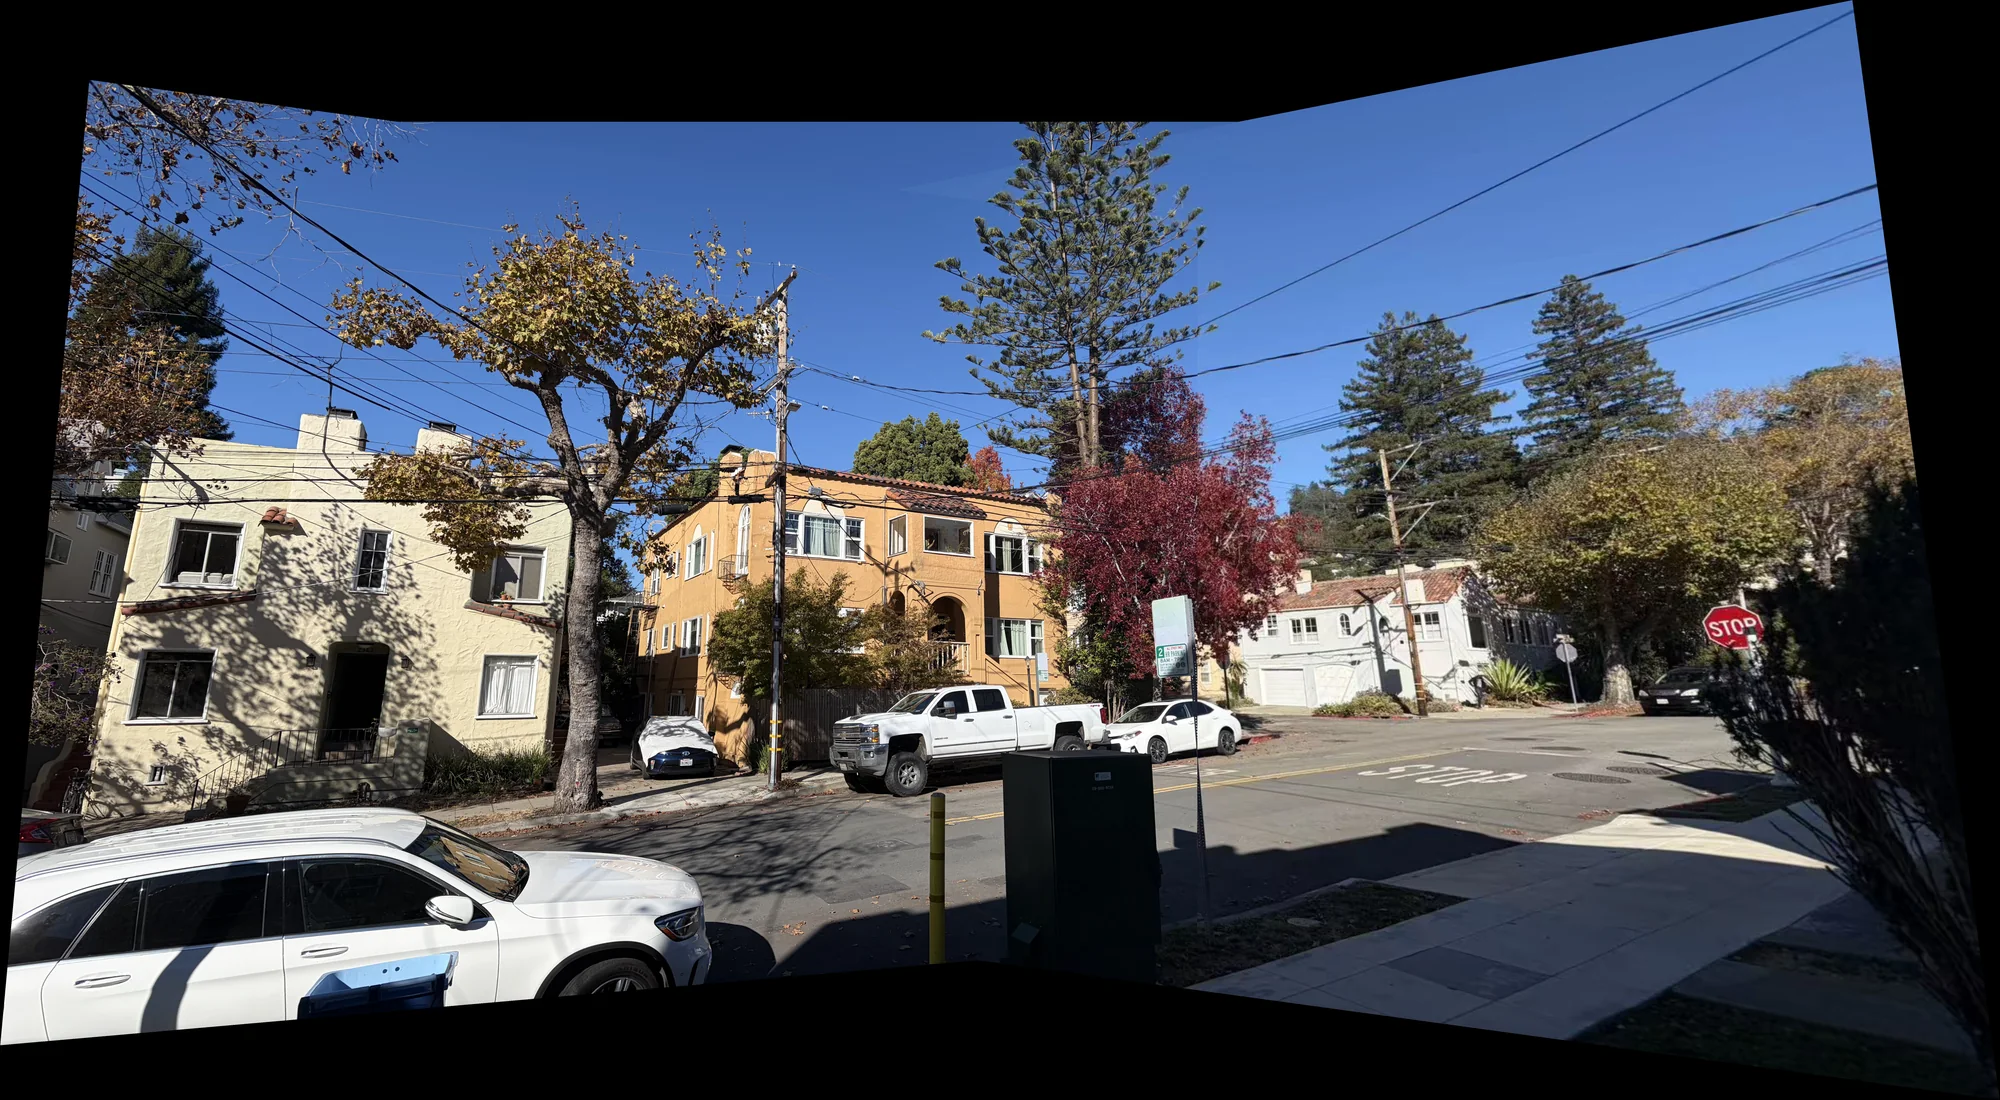
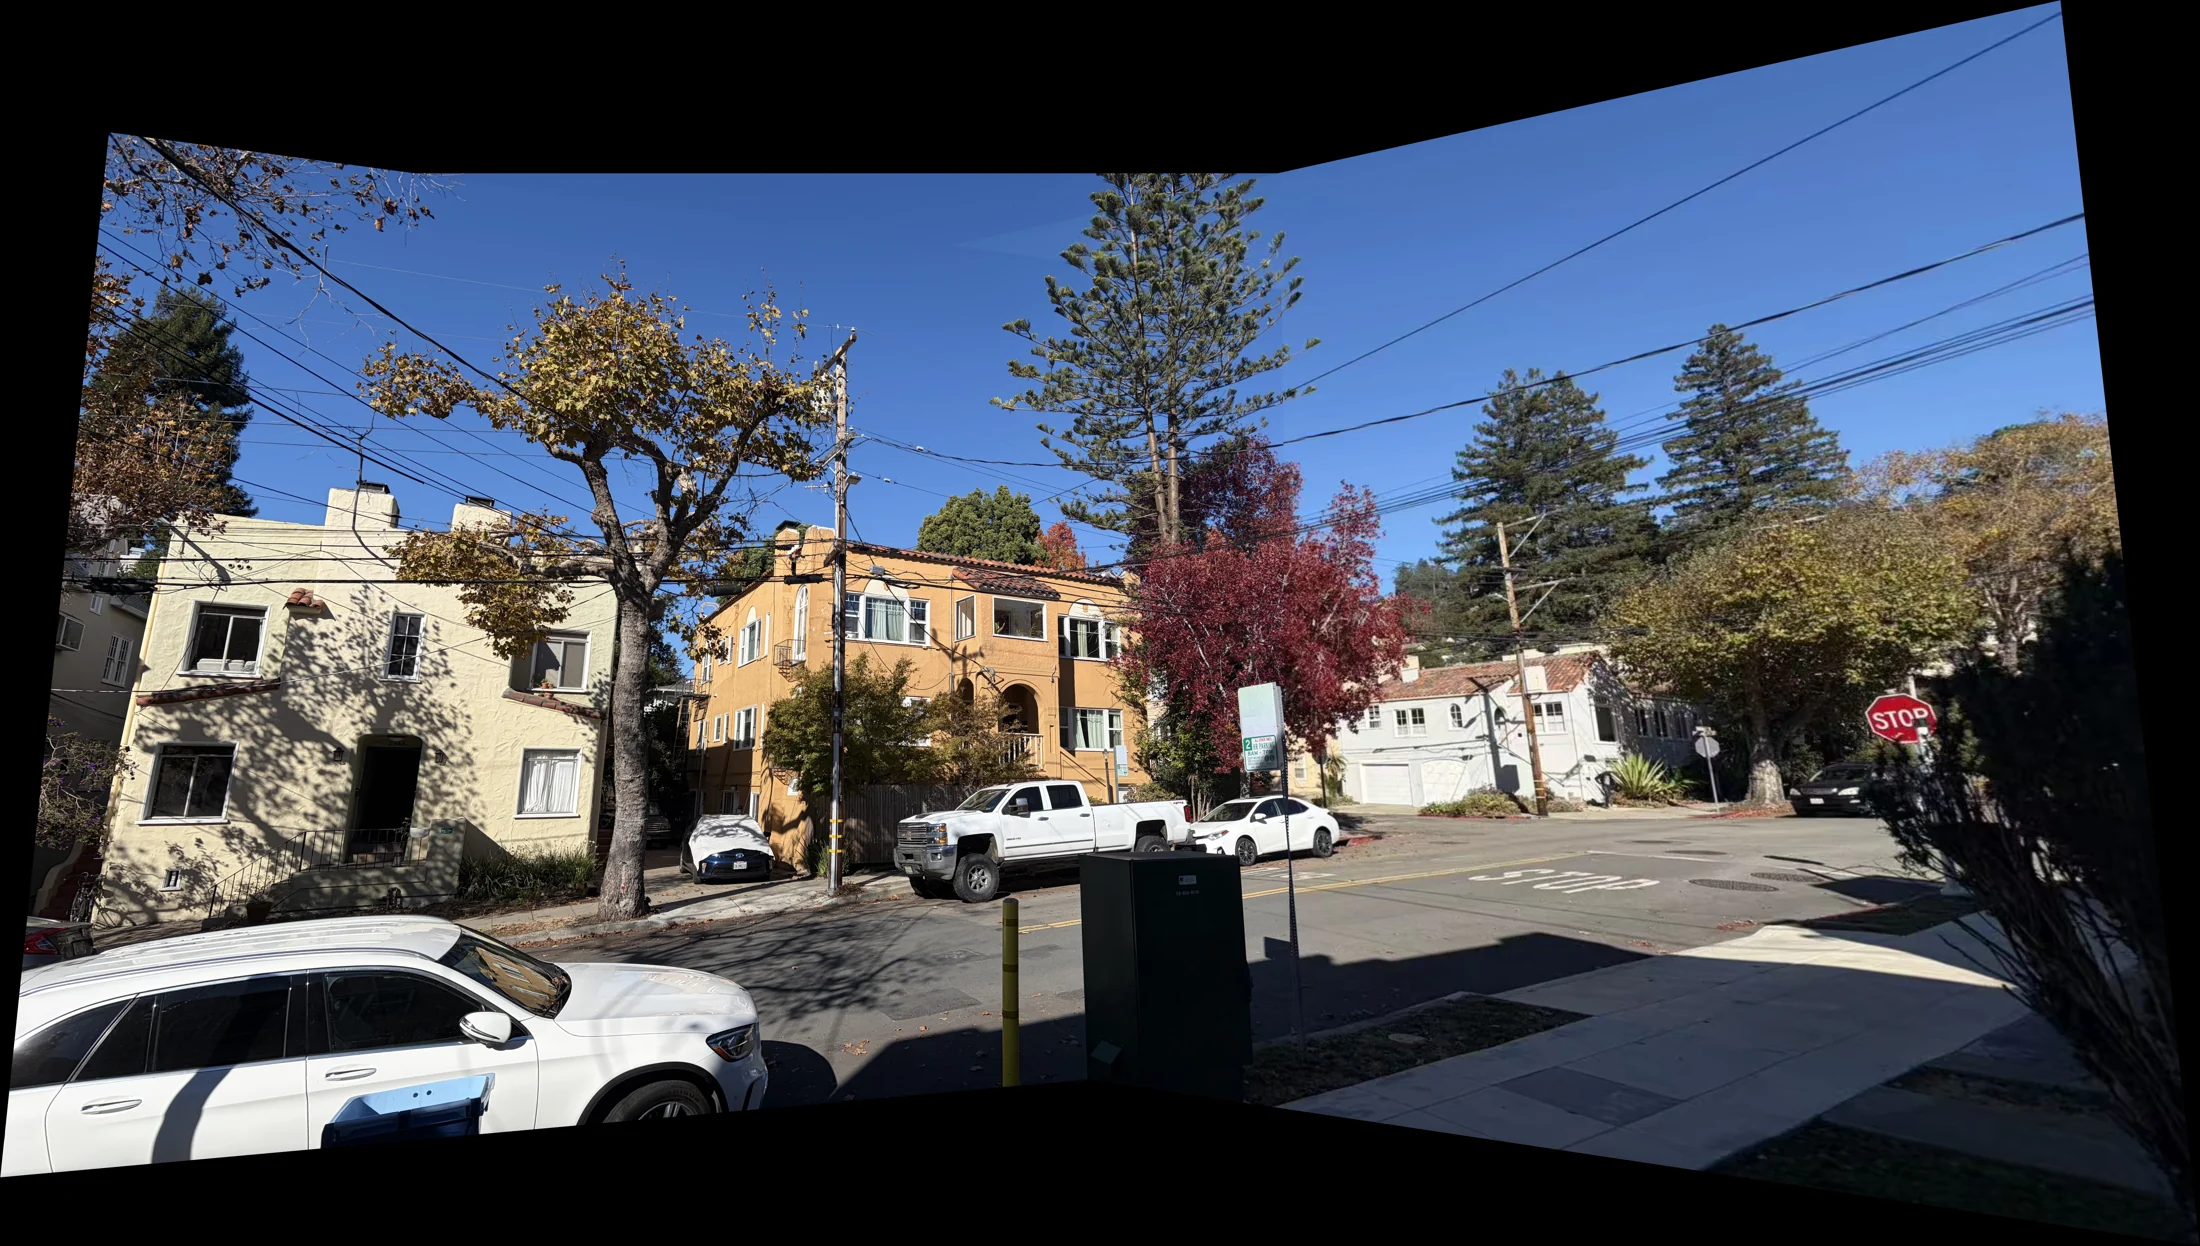
partA

diff --git a/4/partA/index.html b/4/partA/index.html
@@ -251,6 +251,10 @@
 
             <article class="exercise">
                 <h3>Classroom correspondences</h3>
+                <p>Selected points are marked in matching order across the two classroom photographs.</p>
+                <div class="image-grid">
+                    <figure><img src="../PartA/media/A2/points_classroom.png" alt="Manually selected correspondence points marked on both classroom photographs" loading="lazy" decoding="async"><figcaption>Classroom · selected correspondence points</figcaption></figure>
+                </div>
                 <p>Coordinates are listed in the same order in each image; image 1 points map to image 2 points.</p>
                 <table class="point-table">
                     <thead><tr><th>Point</th><th>Image 1 (x, y)</th><th>Image 2 (x, y)</th></tr></thead>
@@ -270,6 +274,9 @@
             <article class="exercise">
                 <h3>Hillside correspondences</h3>
                 <p>The notebook maps image 2 into image 1's coordinate frame and uses image 1 as the reference for the three-image mosaic.</p>
+                <div class="image-grid">
+                    <figure><img src="../PartA/media/A2/points_hill.png" alt="Manually selected correspondence points marked on the three hillside photographs" loading="lazy" decoding="async"><figcaption>Hillside · selected correspondence points</figcaption></figure>
+                </div>
                 <table class="point-table">
                     <thead><tr><th>Point</th><th>Image 2 (x, y)</th><th>Image 1 (x, y)</th></tr></thead>
                     <tbody>
@@ -295,7 +302,7 @@
                 <h3>Rectification · classroom screen</h3>
                 <p>The four corners of the projection screen are mapped to a rectangular output. The source view with selected corners and the nearest-neighbor and bilinear results are shown together.</p>
                 <div class="image-grid">
-                    <figure><img src="../PartA/media/A3/classroom/rectification.png" alt="Classroom screen rectification showing selected corners and nearest-neighbor and bilinear results"><figcaption>Classroom screen · selected corners and interpolation comparison</figcaption></figure>
+                    <figure><img src="./media/A3/classroom/rectification.png" alt="Classroom screen rectification showing selected corners and nearest-neighbor and bilinear results"><figcaption>Classroom screen · selected corners and interpolation comparison</figcaption></figure>
                 </div>
             </article>
 
@@ -303,7 +310,7 @@
                 <h3>Rectification · street facade</h3>
                 <p>The corners of the orange building facade are mapped to a rectangular output. Two street views illustrate how the same planar surface is rectified from different perspectives.</p>
                 <div class="image-grid">
-                    <figure><img src="../PartA/media/A3/resctification_of_street.png" alt="Street facade rectification showing selected corners and nearest-neighbor and bilinear results"><figcaption>Street facade · selected corners and interpolation comparison</figcaption></figure>
+                    <figure><img src="./media/A3/resctification_of_street.png" alt="Street facade rectification showing selected corners and nearest-neighbor and bilinear results"><figcaption>Street facade · selected corners and interpolation comparison</figcaption></figure>
                 </div>
             </article>
 
@@ -312,6 +319,7 @@
                 <div class="image-grid">
                     <figure><img src="./media/A3/classroom/canvasNe.png" alt="Classroom images aligned on a canvas using nearest-neighbor interpolation"><figcaption>Nearest-neighbor canvas</figcaption></figure>
                     <figure><img src="./media/A3/classroom/canvasBi.png" alt="Classroom images aligned on a canvas using bilinear interpolation"><figcaption>Bilinear canvas</figcaption></figure>
+                    <figure><img src="../PartA/media/A3/classroom/canvas.png" alt="Updated classroom nearest-neighbor warp output on the shared canvas"><figcaption>Updated canvas · nearest neighbor</figcaption></figure>
                     <figure><img src="./media/A3/classroom/warped_im1.png" alt="First classroom image placed on the output canvas"><figcaption>Reference image · warped image 1</figcaption></figure>
                     <figure><img src="./media/A3/classroom/warped_im2.png" alt="Second classroom image warped into the reference frame"><figcaption>Aligned image · warped image 2</figcaption></figure>
                 </div>
@@ -322,7 +330,7 @@
                 <div class="image-grid">
                     <figure><img src="./media/A3/hill/canvasNe.png" alt="Three hillside images aligned using nearest-neighbor interpolation"><figcaption>Nearest-neighbor canvas</figcaption></figure>
                     <figure><img src="./media/A3/hill/canvasBi.png" alt="Three hillside images aligned using bilinear interpolation"><figcaption>Bilinear canvas</figcaption></figure>
-                    <figure><img src="./media/A3/hill/canvas.png" alt="Hillside warped image canvas output"><figcaption>Notebook canvas output</figcaption></figure>
+                    <figure><img src="./media/A3/hill/canvas.png" alt="Updated hillside bilinear warp output on the shared canvas"><figcaption>Updated canvas · bilinear</figcaption></figure>
                     </div><div class="image-grid">
                     <figure><img src="./media/A3/hill/warped_im1.png" alt="First hillside image in the reference canvas"><figcaption>Reference image · warped image 1</figcaption></figure>
                     <figure><img src="./media/A3/hill/warped_im2.png" alt="Second hillside image warped into the reference frame"><figcaption>Aligned image · warped image 2</figcaption></figure>
